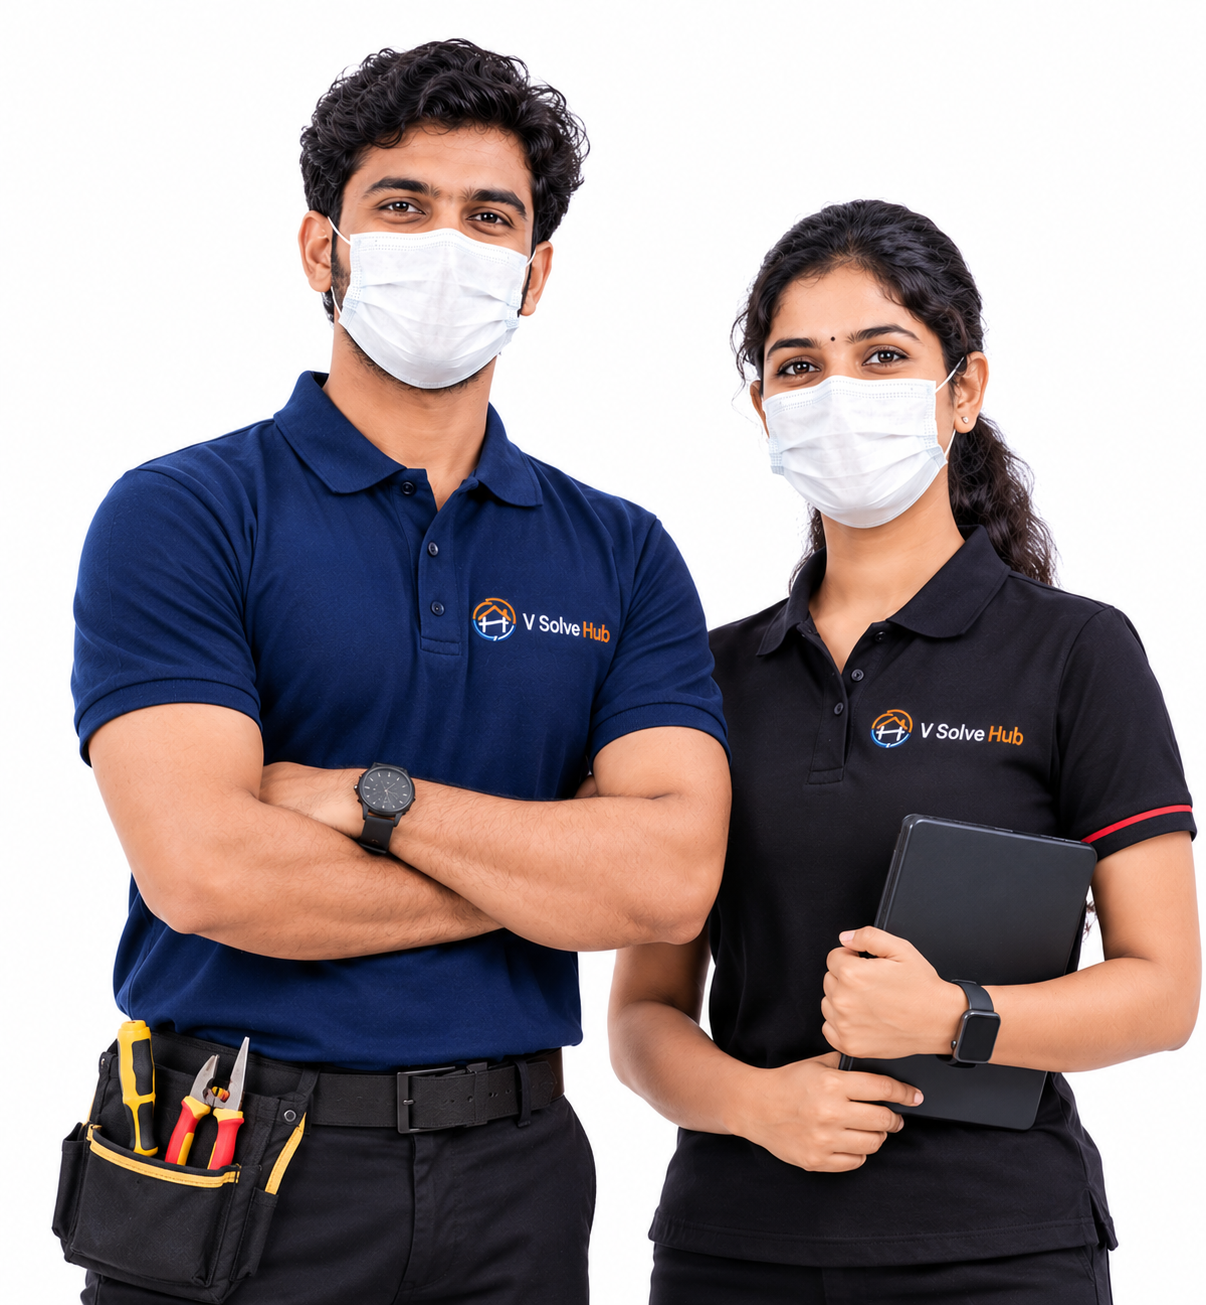
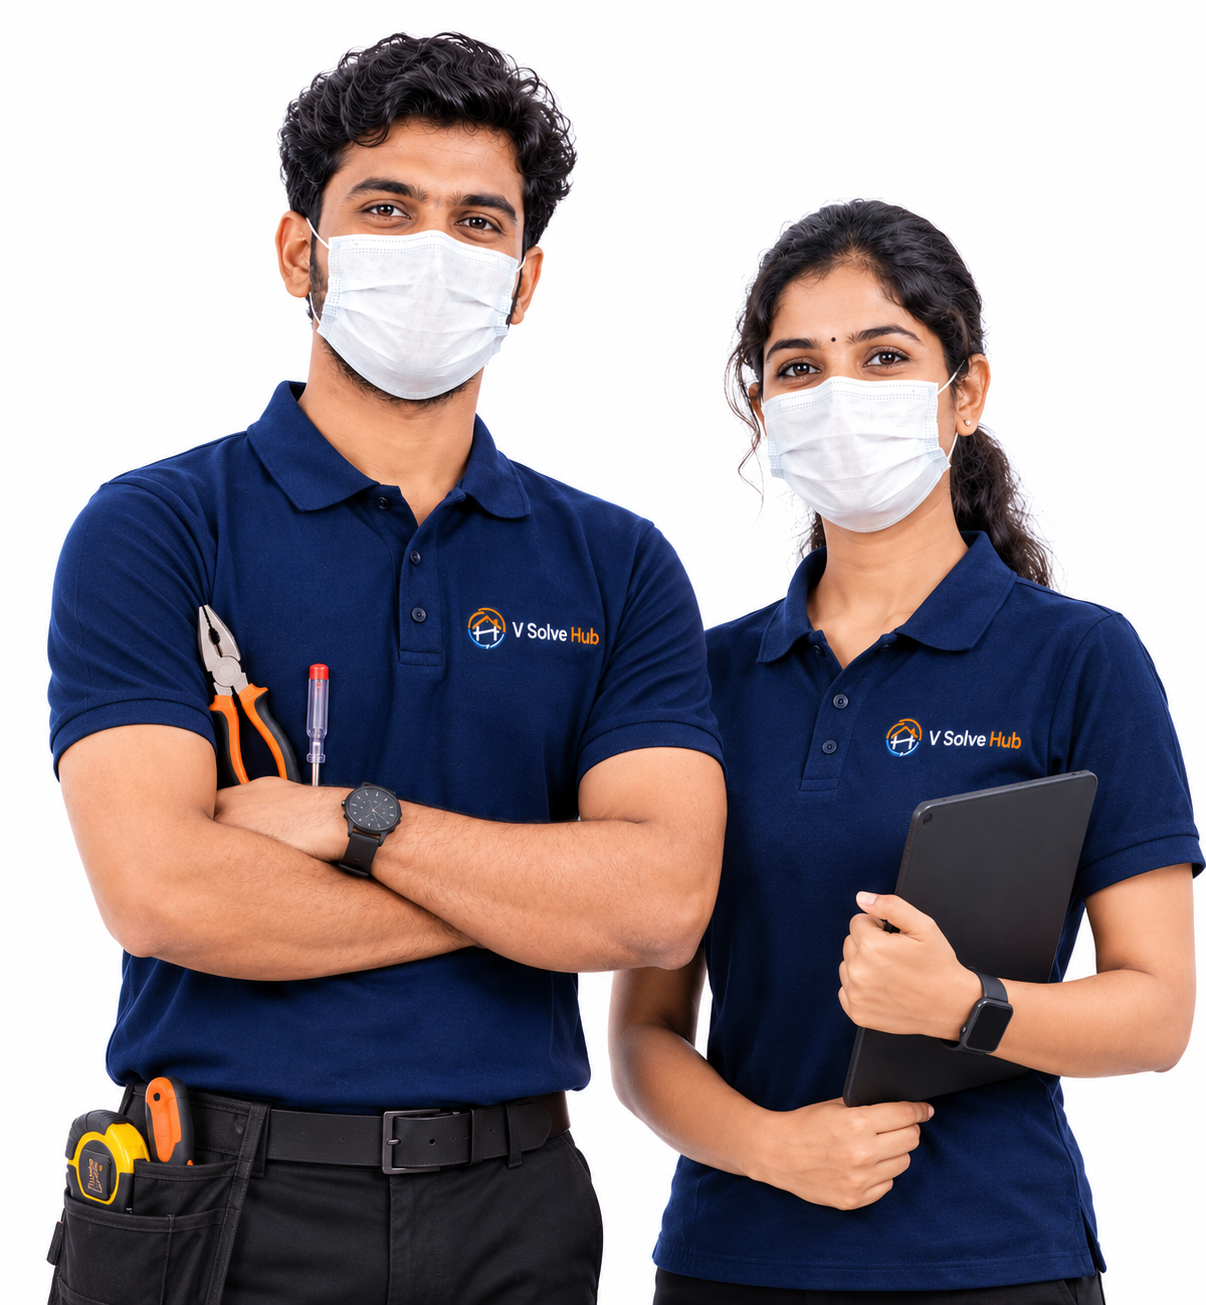
Use new partner image on sign-in pages

diff --git a/frontend/apps/partner/features/session/view/login-screen.tsx b/frontend/apps/partner/features/session/view/login-screen.tsx
@@ -4,6 +4,7 @@ import { ApiRequestError } from "@vsolve/api-client";
 import { useAuthGuard, usePhoneAuthFlow } from "@vsolve/query";
 import { Card, ErrorState, Logo, OtpForm, Spinner, useHydrated, useT } from "@vsolve/ui";
 import { CheckCircle2, HelpCircle, ShieldCheck, Smartphone, Sparkles } from "lucide-react";
+import Image from "next/image";
 import Link from "next/link";
 import { useRouter, useSearchParams } from "next/navigation";
 import { useEffect, type ReactNode } from "react";
@@ -221,6 +222,17 @@ export function LoginScreen() {
                 Enter your mobile number to register as a new partner or continue your document verification. Once approved, live dispatches operate exclusively on our Partner Mobile App.
               </p>
             </div>
+
+            {/* next/image serves a resized copy of the ~2 MB PNG. The photo has a white
+                background; multiply blends it into the page colour. */}
+            <Image
+              src="/partner-login-hero.png"
+              alt="Two V Solve Hub partners in uniform"
+              width={1206}
+              height={1305}
+              sizes="300px"
+              className="h-72 xl:h-80 w-auto self-start object-contain mix-blend-multiply"
+            />
 
             {/* 3 Pillars */}
             <div className="grid gap-3.5 sm:grid-cols-2 pt-2">
